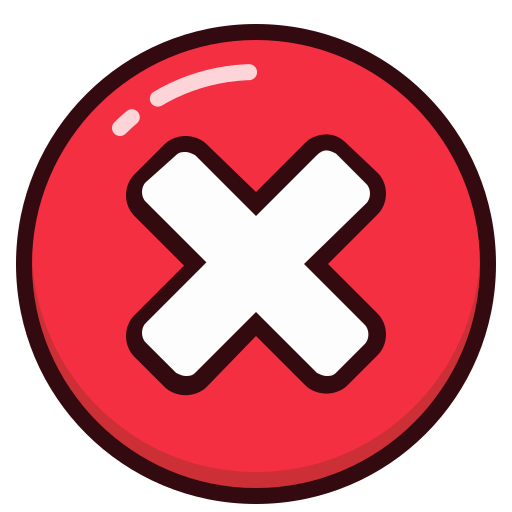
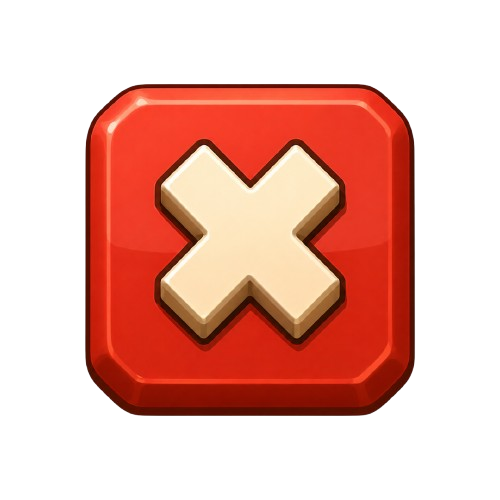
fix: music on/off

diff --git a/lib/features/learning/deck_screen.dart b/lib/features/learning/deck_screen.dart
@@ -97,6 +97,7 @@ class _DeckScreenState extends State<DeckScreen> {
                     const SizedBox(width: 8),
                     GestureDetector(
                       onTap: () {
+                        _playSfx('audio/click.mp3');
                         showDialog(
                           context: context,
                           useSafeArea: true,
@@ -104,34 +105,62 @@ class _DeckScreenState extends State<DeckScreen> {
                           builder: (_) => Dialog(
                             alignment: Alignment.topRight,
                             backgroundColor: Colors.transparent,
-                            insetPadding: const EdgeInsets.only(
-                              right: 40,
-                              top: 80,
-                            ),
+                            insetPadding: const EdgeInsets.only(top: 100),
                             constraints: const BoxConstraints(
                               maxWidth: 200,
-                              maxHeight: 200,
+                              maxHeight: 300,
                             ),
-                            child: GestureDetector(
-                              onTap: () {
-                                if (_isMusicPlaying) {
-                                  _bgMusicPlayer.pause();
-                                } else {
-                                  _bgMusicPlayer.resume();
-                                }
-                                setState(() {
-                                  _isMusicPlaying = !_isMusicPlaying;
-                                });
-                              },
-                              child: Image.asset(
-                                'assets/settings1.png',
-                                fit: BoxFit.contain,
-                              ),
+                            child: Column(
+                              mainAxisSize: MainAxisSize.min,
+                              children: [
+                                GestureDetector(
+                                  onTap: () {
+                                    if (_isMusicPlaying) {
+                                      _bgMusicPlayer.pause();
+                                    } else {
+                                      _bgMusicPlayer.resume();
+                                    }
+                                    setState(() {
+                                      _isMusicPlaying = !_isMusicPlaying;
+                                    });
+                                    Navigator.pop(context);
+                                  },
+                                  child: Image.asset(
+                                    _isMusicPlaying
+                                        ? 'assets/music_off.png'
+                                        : 'assets/music_on.png',
+                                    fit: BoxFit.cover,
+                                    width: double.infinity,
+                                    height: 50,
+                                  ),
+                                ),
+                                // GestureDetector(
+                                //   onTap: () {
+                                //     if (_isMusicPlaying) {
+                                //       _bgMusicPlayer.pause();
+                                //     } else {
+                                //       _bgMusicPlayer.resume();
+                                //     }
+                                //     setState(() {
+                                //       _isMusicPlaying = !_isMusicPlaying;
+                                //     });
+                                //     Navigator.pop(context);
+                                //   },
+                                //   child: Image.asset(
+                                //     _isMusicPlaying
+                                //         ? 'assets/sound_off.png'
+                                //         : 'assets/sound_on.png',
+                                //     fit: BoxFit.cover,
+                                //     width: double.infinity,
+                                //     height: 50,
+                                //   ),
+                                // ),
+                              ],
                             ),
                           ),
                         );
                       },
-                      child: Icon(Icons.menu, color: Colors.white),
+                      child: const Icon(Icons.menu, color: Colors.white),
                     ),
                   ],
                 ),

diff --git a/lib/features/learning/learning_mode_screen.dart b/lib/features/learning/learning_mode_screen.dart
@@ -97,6 +97,7 @@ class _LearningModeScreenState extends State<LearningModeScreen> {
                     const SizedBox(width: 8),
                     GestureDetector(
                       onTap: () {
+                        _playSfx('audio/click.mp3');
                         showDialog(
                           context: context,
                           useSafeArea: true,
@@ -104,34 +105,62 @@ class _LearningModeScreenState extends State<LearningModeScreen> {
                           builder: (_) => Dialog(
                             alignment: Alignment.topRight,
                             backgroundColor: Colors.transparent,
-                            insetPadding: const EdgeInsets.only(
-                              right: 40,
-                              top: 80,
-                            ),
+                            insetPadding: const EdgeInsets.only(top: 100),
                             constraints: const BoxConstraints(
                               maxWidth: 200,
-                              maxHeight: 200,
+                              maxHeight: 300,
                             ),
-                            child: GestureDetector(
-                              onTap: () {
-                                if (_isMusicPlaying) {
-                                  _bgMusicPlayer.pause();
-                                } else {
-                                  _bgMusicPlayer.resume();
-                                }
-                                setState(() {
-                                  _isMusicPlaying = !_isMusicPlaying;
-                                });
-                              },
-                              child: Image.asset(
-                                'assets/settings1.png',
-                                fit: BoxFit.contain,
-                              ),
+                            child: Column(
+                              mainAxisSize: MainAxisSize.min,
+                              children: [
+                                GestureDetector(
+                                  onTap: () {
+                                    if (_isMusicPlaying) {
+                                      _bgMusicPlayer.pause();
+                                    } else {
+                                      _bgMusicPlayer.resume();
+                                    }
+                                    setState(() {
+                                      _isMusicPlaying = !_isMusicPlaying;
+                                    });
+                                    Navigator.pop(context);
+                                  },
+                                  child: Image.asset(
+                                    _isMusicPlaying
+                                        ? 'assets/music_off.png'
+                                        : 'assets/music_on.png',
+                                    fit: BoxFit.cover,
+                                    width: double.infinity,
+                                    height: 50,
+                                  ),
+                                ),
+                                // GestureDetector(
+                                //   onTap: () {
+                                //     if (_isMusicPlaying) {
+                                //       _bgMusicPlayer.pause();
+                                //     } else {
+                                //       _bgMusicPlayer.resume();
+                                //     }
+                                //     setState(() {
+                                //       _isMusicPlaying = !_isMusicPlaying;
+                                //     });
+                                //     Navigator.pop(context);
+                                //   },
+                                //   child: Image.asset(
+                                //     _isMusicPlaying
+                                //         ? 'assets/sound_off.png'
+                                //         : 'assets/sound_on.png',
+                                //     fit: BoxFit.cover,
+                                //     width: double.infinity,
+                                //     height: 50,
+                                //   ),
+                                // ),
+                              ],
                             ),
                           ),
                         );
                       },
-                      child: Icon(Icons.menu, color: Colors.white),
+                      child: const Icon(Icons.menu, color: Colors.white),
                     ),
                   ],
                 ),

diff --git a/lib/features/home/home_screen.dart b/lib/features/home/home_screen.dart
@@ -138,6 +138,7 @@ class _HomeScreenState extends State<HomeScreen> {
                     const SizedBox(width: 8),
                     GestureDetector(
                       onTap: () {
+                        _playSfx('audio/click.mp3');
                         showDialog(
                           context: context,
                           useSafeArea: true,
@@ -145,29 +146,57 @@ class _HomeScreenState extends State<HomeScreen> {
                           builder: (_) => Dialog(
                             alignment: Alignment.topRight,
                             backgroundColor: Colors.transparent,
-                            insetPadding: const EdgeInsets.only(
-                              right: 40,
-                              top: 80,
-                            ),
+                            insetPadding: const EdgeInsets.only(top: 100),
                             constraints: const BoxConstraints(
                               maxWidth: 200,
-                              maxHeight: 200,
+                              maxHeight: 300,
                             ),
-                            child: GestureDetector(
-                              onTap: () {
-                                if (_isMusicPlaying) {
-                                  _bgMusicPlayer.pause();
-                                } else {
-                                  _bgMusicPlayer.resume();
-                                }
-                                setState(() {
-                                  _isMusicPlaying = !_isMusicPlaying;
-                                });
-                              },
-                              child: Image.asset(
-                                'assets/settings1.png',
-                                fit: BoxFit.contain,
-                              ),
+                            child: Column(
+                              mainAxisSize: MainAxisSize.min,
+                              children: [
+                                GestureDetector(
+                                  onTap: () {
+                                    if (_isMusicPlaying) {
+                                      _bgMusicPlayer.pause();
+                                    } else {
+                                      _bgMusicPlayer.resume();
+                                    }
+                                    setState(() {
+                                      _isMusicPlaying = !_isMusicPlaying;
+                                    });
+                                    Navigator.pop(context);
+                                  },
+                                  child: Image.asset(
+                                    _isMusicPlaying
+                                        ? 'assets/music_off.png'
+                                        : 'assets/music_on.png',
+                                    fit: BoxFit.cover,
+                                    width: double.infinity,
+                                    height: 50,
+                                  ),
+                                ),
+                                // GestureDetector(
+                                //   onTap: () {
+                                //     if (_isMusicPlaying) {
+                                //       _bgMusicPlayer.pause();
+                                //     } else {
+                                //       _bgMusicPlayer.resume();
+                                //     }
+                                //     setState(() {
+                                //       _isMusicPlaying = !_isMusicPlaying;
+                                //     });
+                                //     Navigator.pop(context);
+                                //   },
+                                //   child: Image.asset(
+                                //     _isMusicPlaying
+                                //         ? 'assets/sound_off.png'
+                                //         : 'assets/sound_on.png',
+                                //     fit: BoxFit.cover,
+                                //     width: double.infinity,
+                                //     height: 50,
+                                //   ),
+                                // ),
+                              ],
                             ),
                           ),
                         );